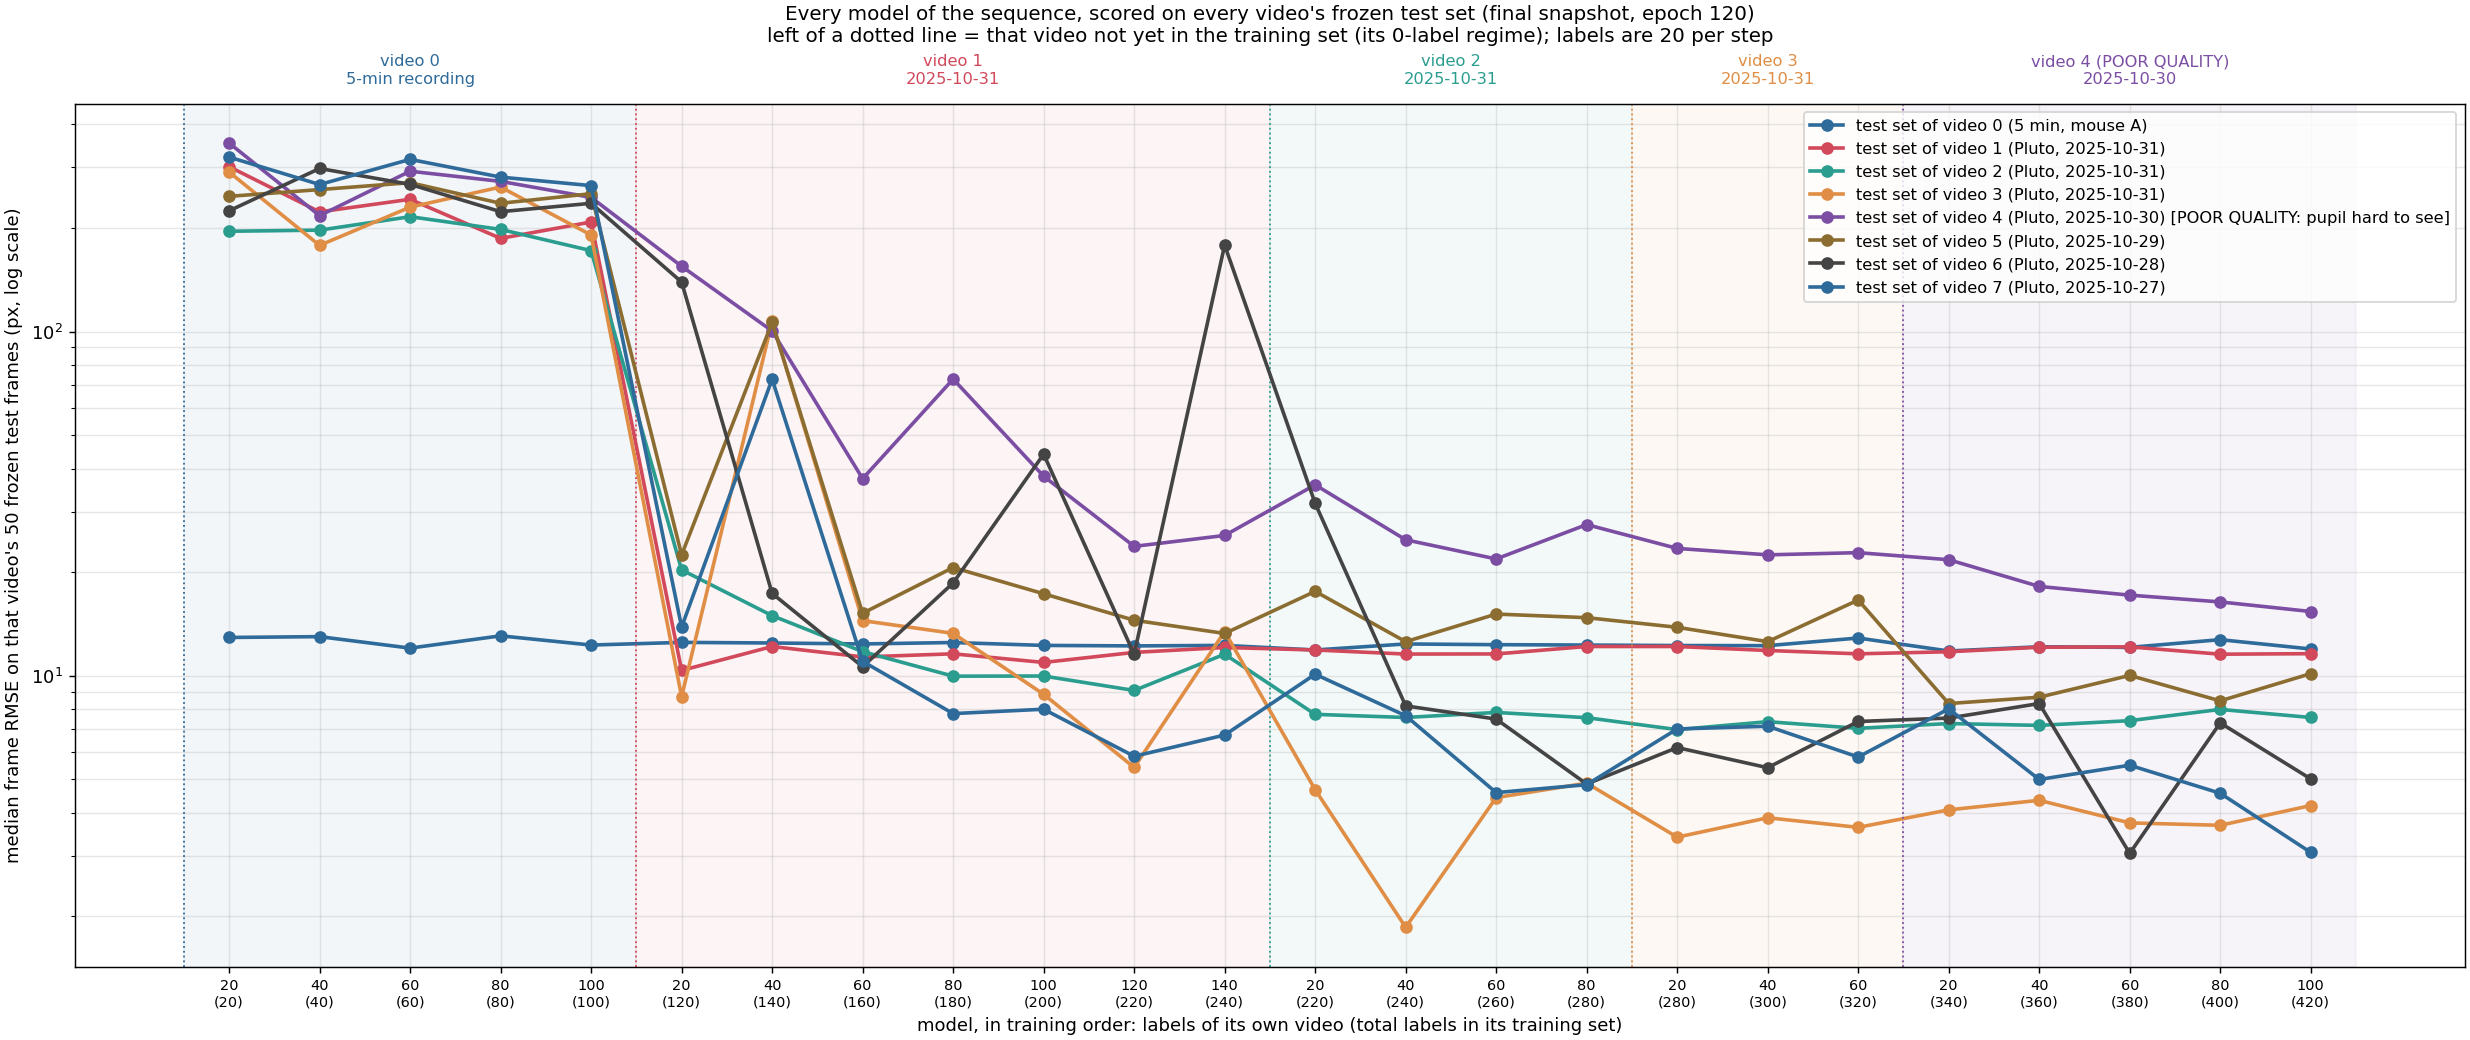
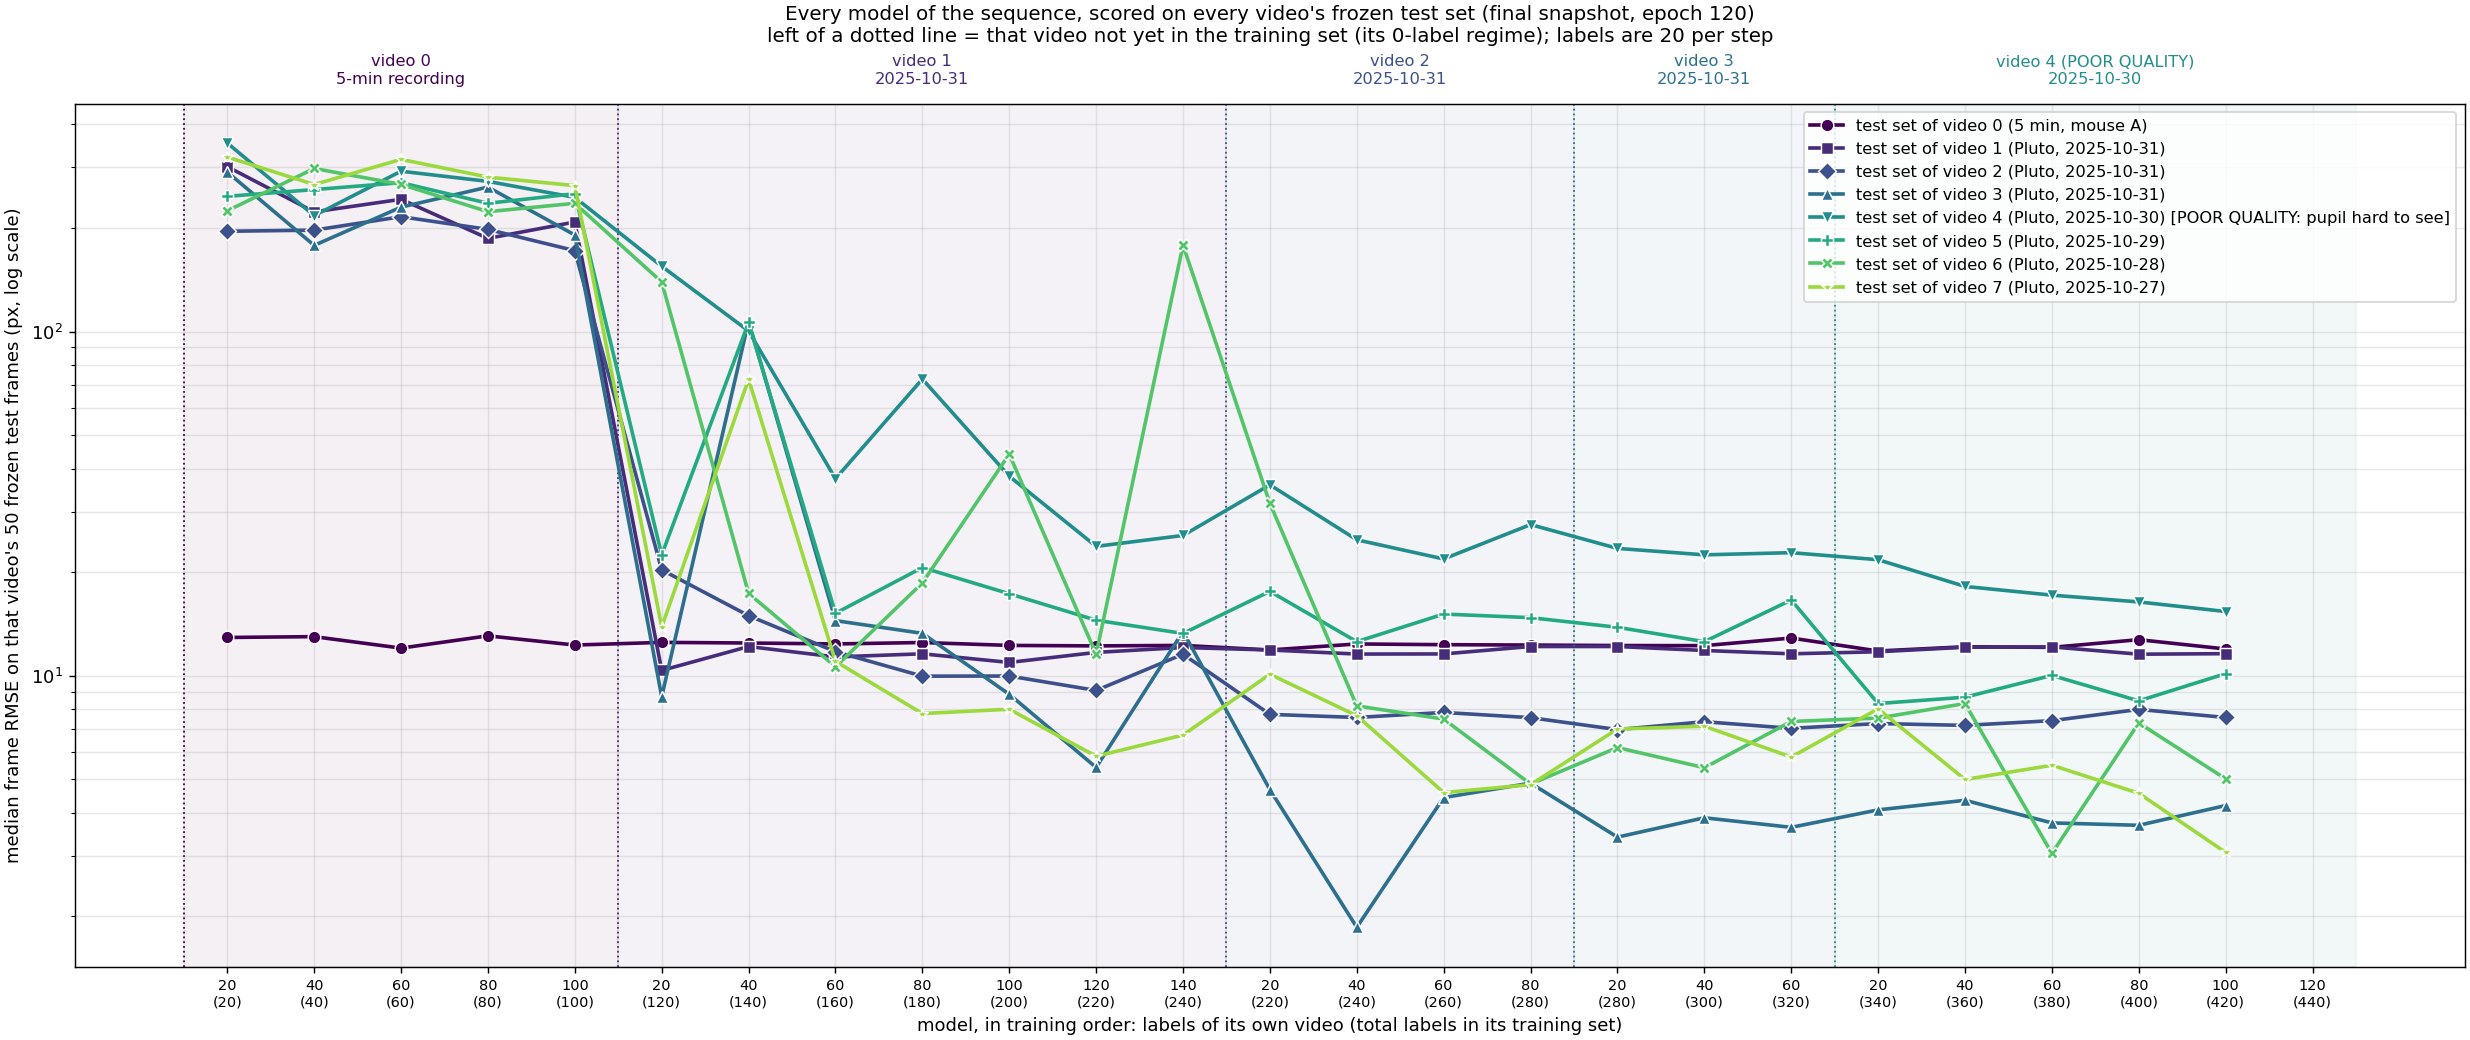
Cross-video curves: ordered palette (video 0 darkest -> newest lightest, viridis) plus one marker shape per video

diff --git a/new_pupil_top_video_scaling/scripts/cross_video_eval.py b/new_pupil_top_video_scaling/scripts/cross_video_eval.py
@@ -116,14 +116,16 @@ def score(shuffle, tsi, final_idx, test_unit):
 
 def plot(m):
     units = test_units()
-    colors = {v[0]: PALETTE[i % len(PALETTE)] for i, v in enumerate(VIDEOS)}
+    # ordered colours: video 0 darkest -> newest video lightest (viridis, perceptually ordered), so the sequence reads as a trend
+    colors = {v[0]: plt.cm.viridis(0.85 * i / max(1, len(VIDEOS) - 1)) for i, v in enumerate(VIDEOS)}
+    markers = {v[0]: "osD^vPX*"[i % 8] for i, v in enumerate(VIDEOS)}
     short = {v[0]: label_of(v[0]) for v in VIDEOS}
     mods = models()
     m = m[m.shuffle.isin(mods.shuffle)]
     fig, ax = plt.subplots(figsize=(19, 8), constrained_layout=True)
     for tu in units:
         s = m[m.test_unit == tu].sort_values("model_idx")
-        ax.plot(s.model_idx, s.median_frame_rmse_px, "o-", color=colors[tu], lw=2, ms=6, label=f"test set of {short[tu]}")
+        ax.plot(s.model_idx, s.median_frame_rmse_px, "-", marker=markers[tu], color=colors[tu], lw=2, ms=7, mec="white", mew=0.8, label=f"test set of {short[tu]}")
         own = mods[mods.model_unit == tu].model_idx.min()
         if not np.isfinite(own):
             continue
